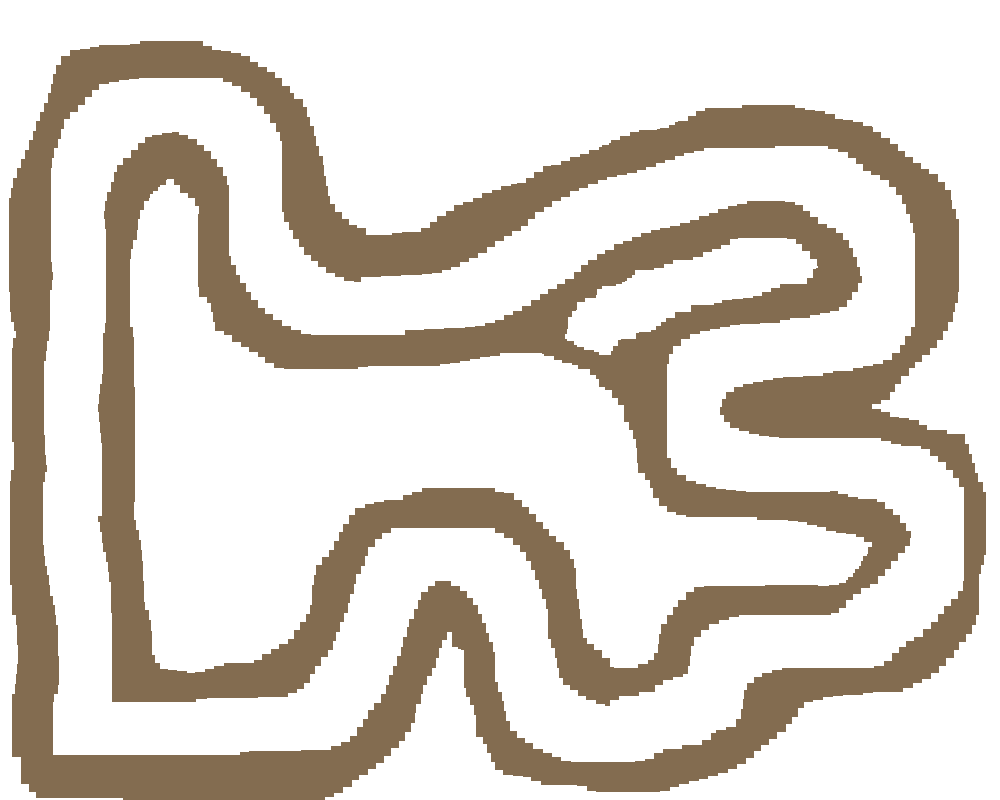
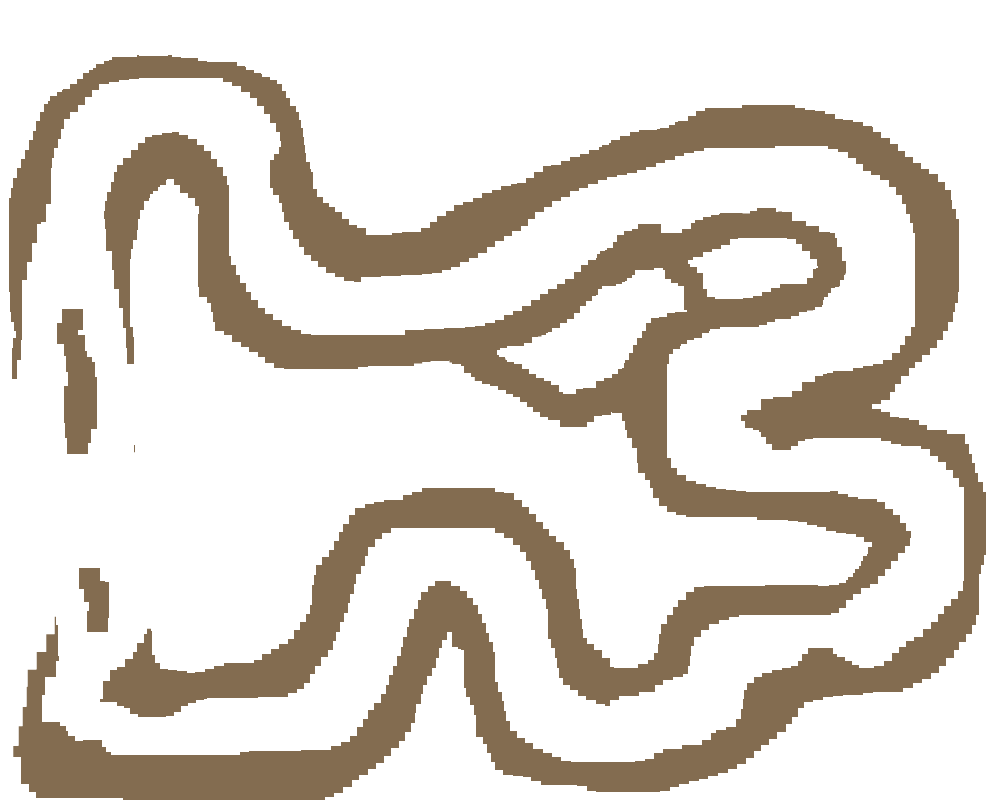
Revamp collision detection

diff --git a/Racing.java b/Racing.java
@@ -14,6 +14,9 @@ import javax.sound.sampled.AudioInputStream;
 import javax.sound.sampled.AudioSystem;
 import javax.sound.sampled.Clip;
 
+import java.util.HashMap;
+import java.util.Map;
+
 import java.util.concurrent.*;
 import java.awt.event.*;
 import javax.swing.*;
@@ -80,7 +83,7 @@ public class Racing {
 		appFrame.setVisible(true);
 
 		BackgroundSound menu_theme = new BackgroundSound("menu.wav", true);
-		menu_theme.play();
+		// menu_theme.play();
 	}
 
 	public static void setup() {
@@ -109,6 +112,9 @@ public class Racing {
 		} catch (IOException e) {
 			e.printStackTrace();
 		}
+
+		nonAlphaSkyMap = initNonAlphaPixelMap(sky);
+		nonAlphaDirtMap = initNonAlphaPixelMap(dirt);
 	}
 
 	// -------- BUTTON ACTIONS --------
@@ -214,12 +220,13 @@ public class Racing {
 				Graphics2D g2D = (Graphics2D) g;
 				if (p1won) {
 					g2D.setFont(new Font("SansSerif", Font.PLAIN, 36));
-					g2D.setColor(P2RED);
-					g2D.drawString("P1 won!!!!!!!!!!!! :DDDDDDDD", 50, 50);
+					g2D.setColor(P1BLUE);
+					g2D.drawString("Playa ONE won !!!!!!!!!!!! :DDDDDDDD", 50, 50);
 				}
 				if (p2won) {
 					g2D.setColor(P2RED);
-					g2D.drawString("P1 won!!!!!!!!!!!! :DDDDDDDD", 50, 50);
+					g2D.setFont(new Font("SansSerif", Font.PLAIN, 36));
+					g2D.drawString("Playa TWO won !!!!!!!!!!!! :DDDDDDDD", 50, 50);
 				}
 				g2D.dispose();
 			}
@@ -259,21 +266,18 @@ public class Racing {
 				// did they finish lap
 				checkLapProgress(p1.getX(), p1.getY(), p1_lap_progress, p1_curr_lap, timeTracker);
 
-				if (isCollidingWithLayer(p1.getX(), p1.getY(), dirt)) {
-					p1.maxvelocity = 0.8;
-				} else {
-					p1.maxvelocity = 2;
-				}
+				isCollidingWithSky = (isCollidingWithLayer(p1.getX(), p1.getY(), 0.65, nonAlphaSkyMap));
+				isCollidingWithDirt = (isCollidingWithLayer(p1.getX(), p1.getY(), 0.50, nonAlphaDirtMap));
 
-				if (isCollidingWithLayer(p1.getX(), p1.getY(), sky) && !p1FallRecentlyPlayed) { // play fall sound
+				/*if (isCollidingWithSky && !p1FallRecentlyPlayed) { // play fall sound
 					// wait 3 sec, but do not pause rest of execution
 					fallSound.play();
 					p1FallRecentlyPlayed = true;
 					ScheduledExecutorService scheduler = Executors.newSingleThreadScheduledExecutor();
                 	scheduler.schedule(() -> p1FallRecentlyPlayed = false, 3, TimeUnit.SECONDS);
-				}
+				}*/
 
-				if (isCollidingWithLayer(p1.getX(), p1.getY(), sky)) {
+				if (isCollidingWithSky) {
 					p1dead = true;
 					try { Thread.sleep(3000); } catch (InterruptedException e) { }
 					p1velocity = 0;
@@ -282,6 +286,12 @@ public class Racing {
 				}
 
 				isCollidingWithPlayer(); // is it?
+
+				if (isCollidingWithDirt) {
+					p1.maxvelocity = 0.8;
+				} else {
+					p1.maxvelocity = 2;
+				}
 
 				if (upPressed == true) {
 					if (p1velocity < p1.maxvelocity) {
@@ -331,6 +341,7 @@ public class Racing {
 			}
 		}
 		private double velocitystep, rotatestep, brakingforce;
+		private boolean isCollidingWithSky, isCollidingWithDirt;
 	}
 
 	// updating player two movement
@@ -344,7 +355,7 @@ public class Racing {
 			brakingforce = 0.02;
 
 			refreshPoints(p2_lap_progress);
-			p2_curr_lap = 1;
+			p2_curr_lap = 3;
 
 			timeTracker.startLap(false); // is not p1
 		}
@@ -359,21 +370,18 @@ public class Racing {
 
 				checkLapProgress(p2.getX(), p2.getY(), p2_lap_progress, p2_curr_lap, timeTracker);
 
-				if (isCollidingWithLayer(p2.getX(), p2.getY(), dirt)) {
-					p2.maxvelocity = 0.8;
-				} else {
-					p2.maxvelocity = 2;
-				}
+				isCollidingWithSky = (isCollidingWithLayer(p2.getX(), p2.getY(), 0.65, nonAlphaSkyMap));
+				isCollidingWithDirt = (isCollidingWithLayer(p2.getX(), p2.getY(), 0.50, nonAlphaDirtMap));
 
-				if (isCollidingWithLayer(p2.getX(), p2.getY(), sky) && !p2FallRecentlyPlayed) { // play fall sound
+				/*if (isCollidingWithSky && !p2FallRecentlyPlayed) { // play fall sound
 					// wait 3 sec, but do not pause rest of execution
 					fallSound.play();
 					p2FallRecentlyPlayed = true;
 					ScheduledExecutorService scheduler = Executors.newSingleThreadScheduledExecutor();
                 	scheduler.schedule(() -> p2FallRecentlyPlayed = false, 3, TimeUnit.SECONDS);
-				}
+				}*/
 
-				if (isCollidingWithLayer(p2.getX(), p2.getY(), sky)) {
+				if (isCollidingWithSky) {
 					p2dead = true;
 					try { Thread.sleep(3000); } catch (InterruptedException e) { }
 					p2velocity = 0;
@@ -382,6 +390,12 @@ public class Racing {
 				}
 
 				isCollidingWithPlayer();
+
+				if (isCollidingWithDirt) {
+					p2.maxvelocity = 0.8;
+				} else {
+					p2.maxvelocity = 2;
+				}
 				
 				if (wPressed == true) {
 					if (p2velocity < p2.maxvelocity) {
@@ -431,6 +445,7 @@ public class Racing {
 			}
 		}
 		private double velocitystep, rotatestep, brakingforce;
+		private boolean isCollidingWithSky, isCollidingWithDirt;
 	}
 
 	private static void refreshPoints(ArrayList<Point> lapProgress) {
@@ -491,14 +506,33 @@ public class Racing {
 		}
 	}
 
-	private static boolean isCollidingWithLayer(double carX, double carY, BufferedImage img) {
-	    int roundedX = (int) Math.round(carX);
-	    int roundedY = (int) Math.round(carY);
+	private static boolean isCollidingWithLayer(double carX, double carY, double threshold, Map<Integer, Boolean> map) {
+		int carWidth = 30;
+        int carHeight = 30;
 
-	    int pixelColor = img.getRGB(roundedX, roundedY);
+        // bounding box for the car
+        Rectangle carBounds = new Rectangle((int) carX, (int) carY, carWidth, carHeight);
 
-	    return (pixelColor & 0xFF000000) != 0;
-	}
+        int totalPixels = carBounds.width * carBounds.height;
+        int collidedPixels = 0;
+		int x;
+		int y;
+
+        // iterate over the pixels within the car's bounding box
+        for (x = carBounds.x; x < carBounds.x + carBounds.width; x++) {
+            for (y = carBounds.y; y < carBounds.y + carBounds.height; y++) {
+                // check if the pixel is in the map
+                int key = x + y * WINWIDTH;
+                if (map.containsKey(key)) {
+                    collidedPixels++;
+                }
+            }
+        }
+
+        // check if the percentage of collided pixels is greater than the threshold
+        double collisionPercentage = (double) collidedPixels / totalPixels;
+        return collisionPercentage >= threshold;
+    }
 
 	private static void isCollidingWithPlayer() {
 		double xdiff = p2.getX() - p1.getX();
@@ -875,6 +909,25 @@ public class Racing {
 	    return Math.sqrt(Math.pow(x2 - x1, 2) + Math.pow(y2 - y1, 2));
 	}
 
+	// init the non-alpha pixel map during setup
+    private static Map<Integer, Boolean> initNonAlphaPixelMap(BufferedImage img) {
+        Map<Integer, Boolean> map = new HashMap<>();
+
+        for (int x = 0; x < WINWIDTH; x++) {
+            for (int y = 0; y < WINHEIGHT; y++) {
+                int pixelColor = img.getRGB(x, y);
+                int key = x+y*WINWIDTH;
+
+                // put non-alpha pixels
+                if ((pixelColor & 0xFF000000) != 0) {
+                    map.put(key, true);
+                }
+            }
+        }
+
+		return map;
+    }
+
 	// -------- GLOBAL VARIABLES --------
 	private static Boolean endgame;
 	private static Boolean GameOver = false;
@@ -914,7 +967,7 @@ public class Racing {
 	private static Color CELESTIAL = new Color(49, 151, 199);
 	private static Color HIGHLIGHT = new Color(110, 168, 195);
 	private static Color URANIAN = new Color(164, 210, 232);
-	private static Color P1BLUE = new Color(50, 115, 213);
+	private static Color P1BLUE = new Color(29, 78, 153);
 	private static Color P2RED = new Color(213, 50, 50);
 
 	private static int XOFFSET, YOFFSET, WINWIDTH, WINHEIGHT;
@@ -928,5 +981,7 @@ public class Racing {
 	private static final int IFW = JComponent.WHEN_IN_FOCUSED_WINDOW;
 
 	private static BufferedImage sky, dirt, track;
+	private static Map<Integer, Boolean> nonAlphaSkyMap;
+	private static Map<Integer, Boolean> nonAlphaDirtMap;
 	private static BufferedImage player1, player2;
 }
